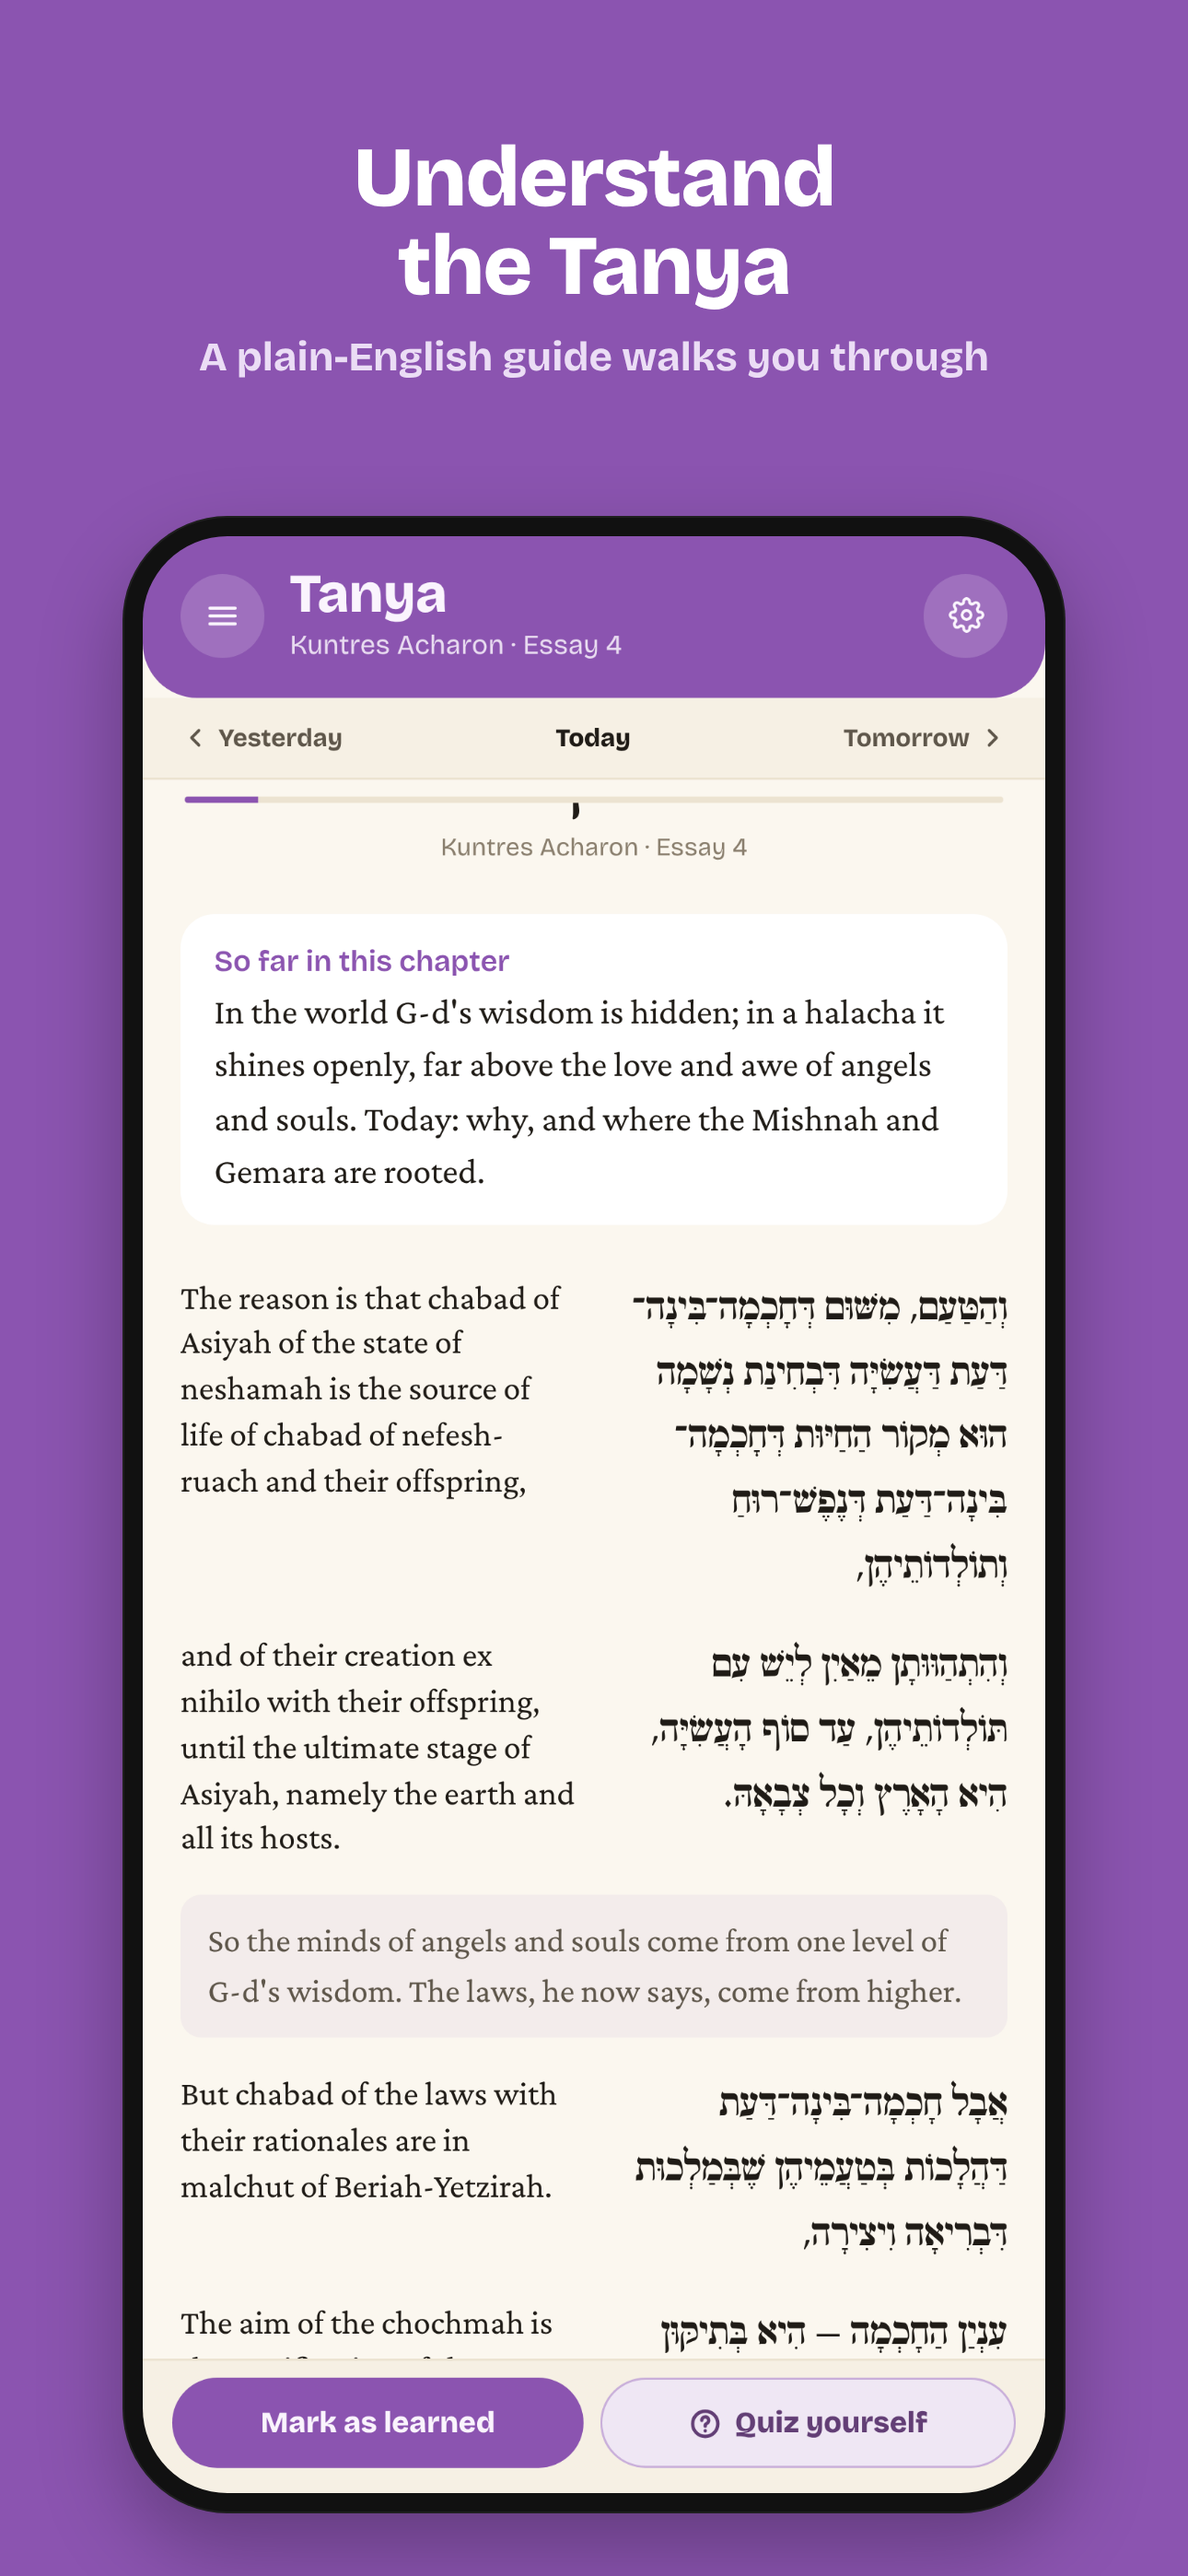
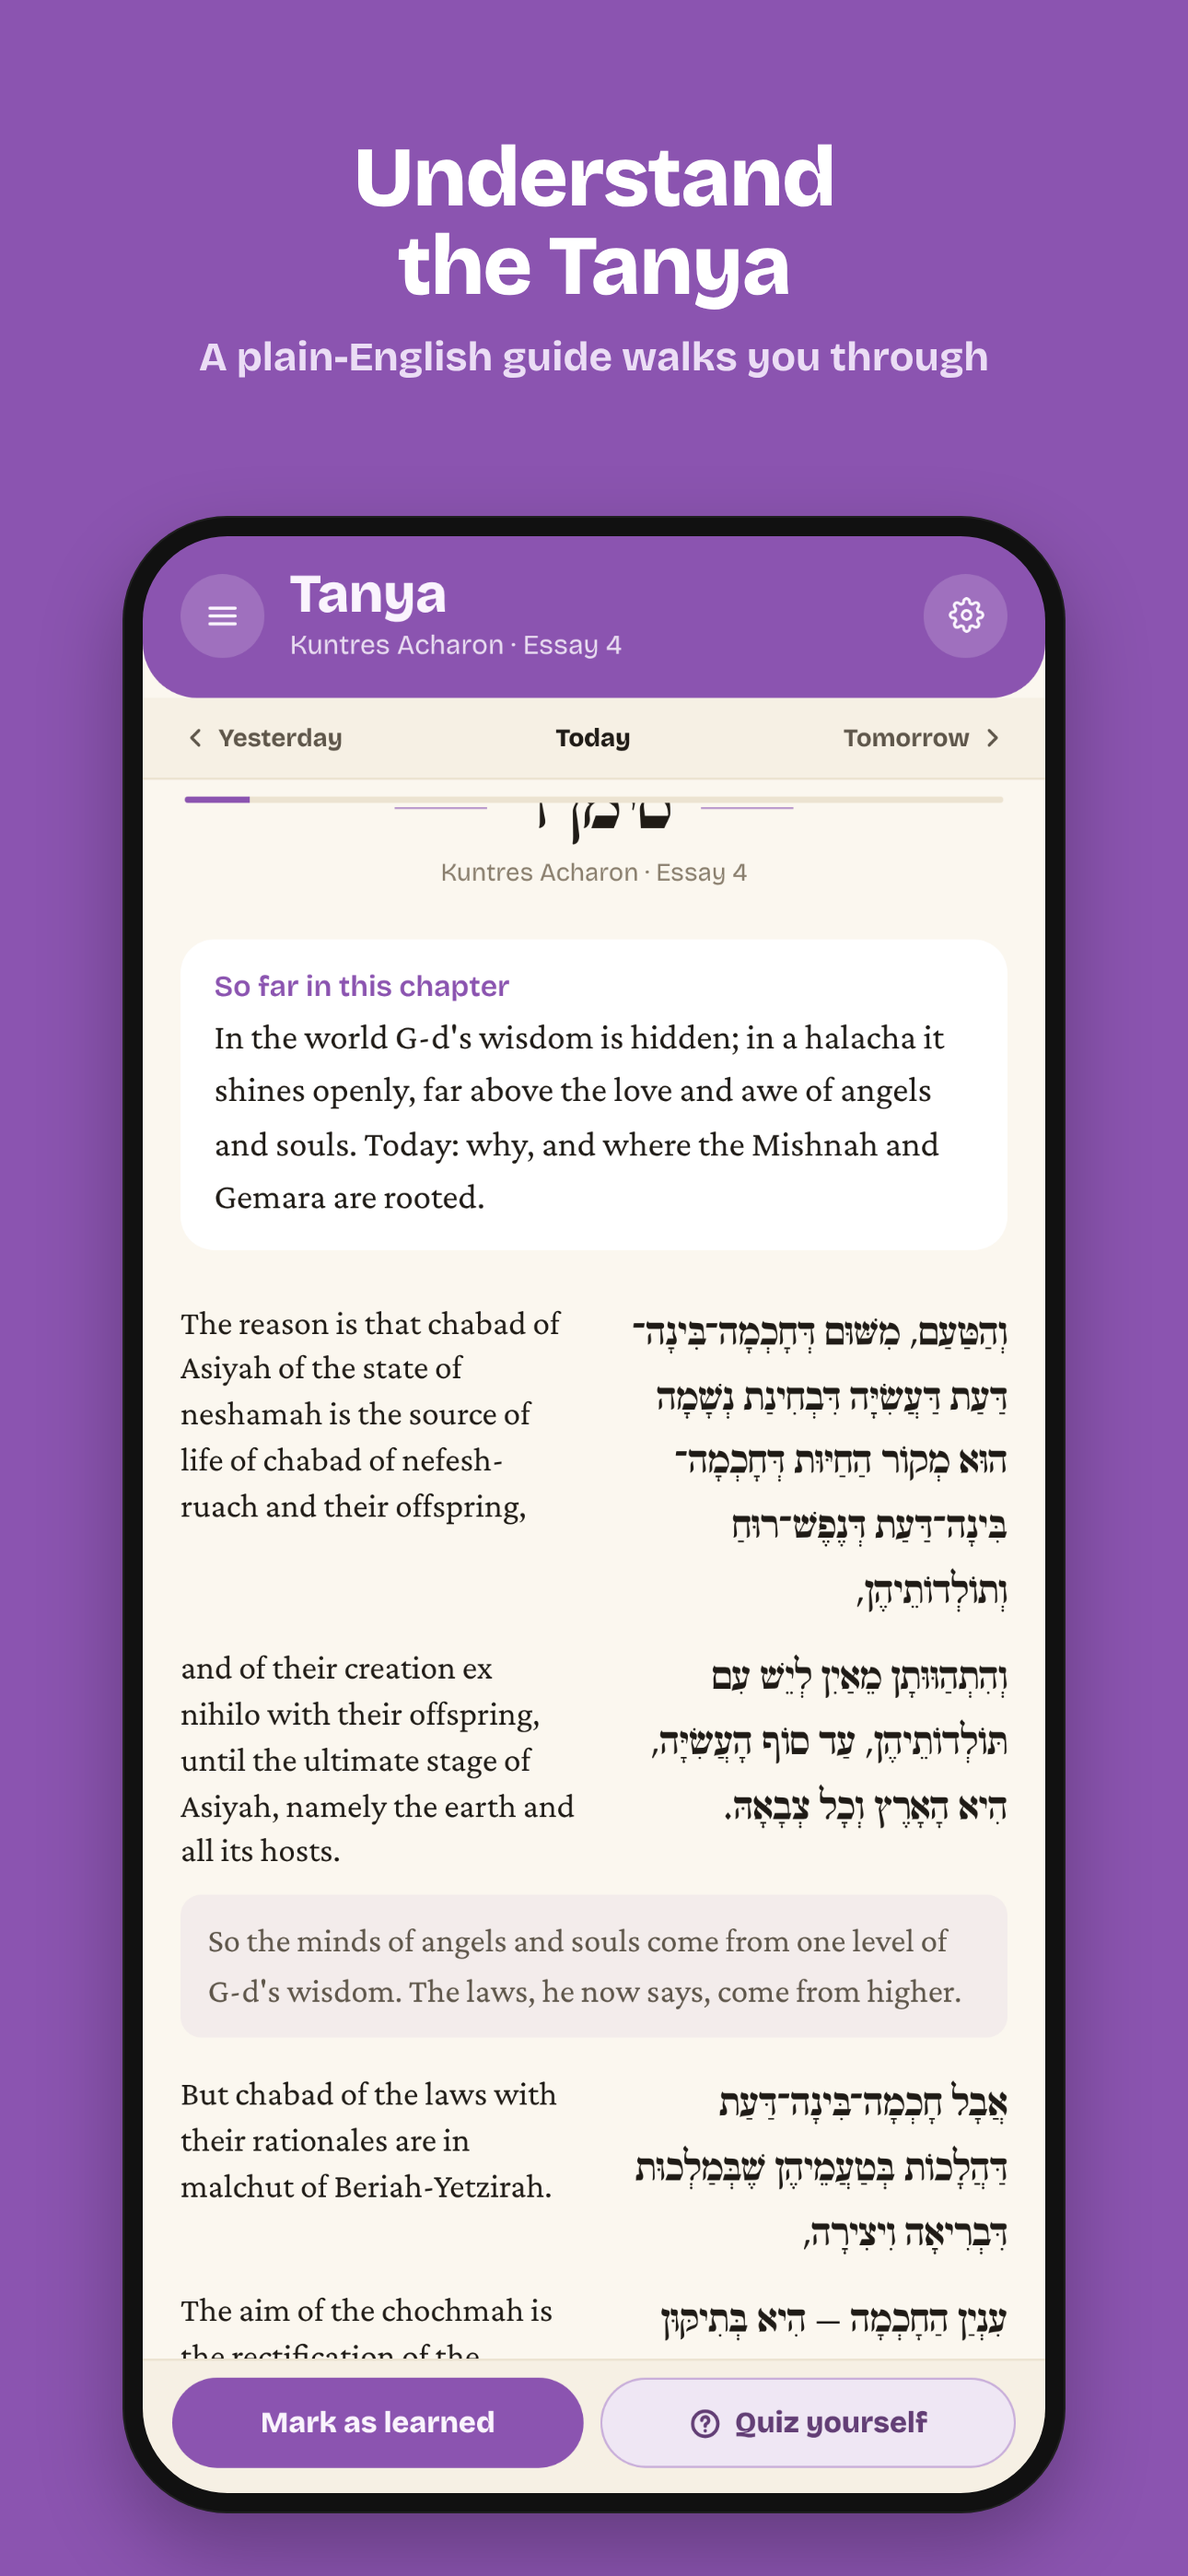
Tanya: the short pieces sit closer (10px apart instead of 16)
The pieces are now a breath each, so the old space read as large gaps.
Bridges and headings keep their own space. Store screenshot 5 updated.

Claude-Session: https://claude.ai/code/session_01LRUPatthgLGU828ZuACoyq

diff --git a/index.html b/index.html
@@ -894,7 +894,7 @@ html.reader-open, html.reader-open body { overflow: hidden; }
 .rb-why b { font:600 11px var(--ui-font); font-style:normal; color:var(--t3); margin-right:3px; }
 .tz-bridge { font-family:var(--read-font); font-size:16px; line-height:1.5; color:var(--t2); background:color-mix(in srgb, var(--purple) 7%, var(--bg)); border-radius:10px; padding:10px 13px; margin:8px 0 16px; }   /* Tanya's guide: plain words that help follow the argument */
 .tz-note { font-family:var(--read-font); font-style:italic; font-size:16px; line-height:1.45; color:var(--purple); border-left:2px solid color-mix(in srgb, var(--purple) 30%, transparent); padding:1px 0 1px 11px; margin:22px 0 12px; }   /* Tanya's guide: a word from a chavrusa where the thread could be lost */
-.tz-p { margin-bottom:16px; }
+.tz-p { margin-bottom:10px; }   /* the pieces are short (a breath each), so they sit close; a bridge or heading keeps its own space */
 .tz-he { direction:rtl; text-align:justify; text-align-last:right; font-family:'Vilna','Frank Ruhl Libre','Noto Serif Hebrew',serif; font-weight:500; --rf-sz:20px; --rf-lh:1.72; font-size:var(--rf-sz); line-height:var(--rf-lh); color:var(--t1); }
 .tz-en { font-family:var(--read-font); --rf-sz:16px; --rf-lh:1.5; font-size:var(--rf-sz); line-height:var(--rf-lh); color:var(--t1); }
 .tz-p.both { display:grid; grid-template-columns:1fr 1fr; gap:16px; align-items:start; }
